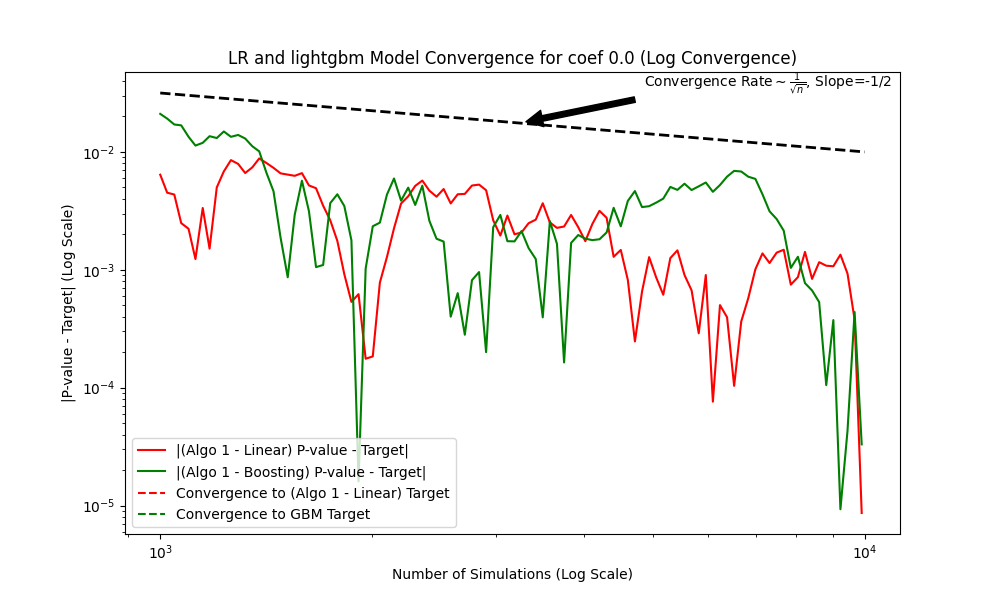
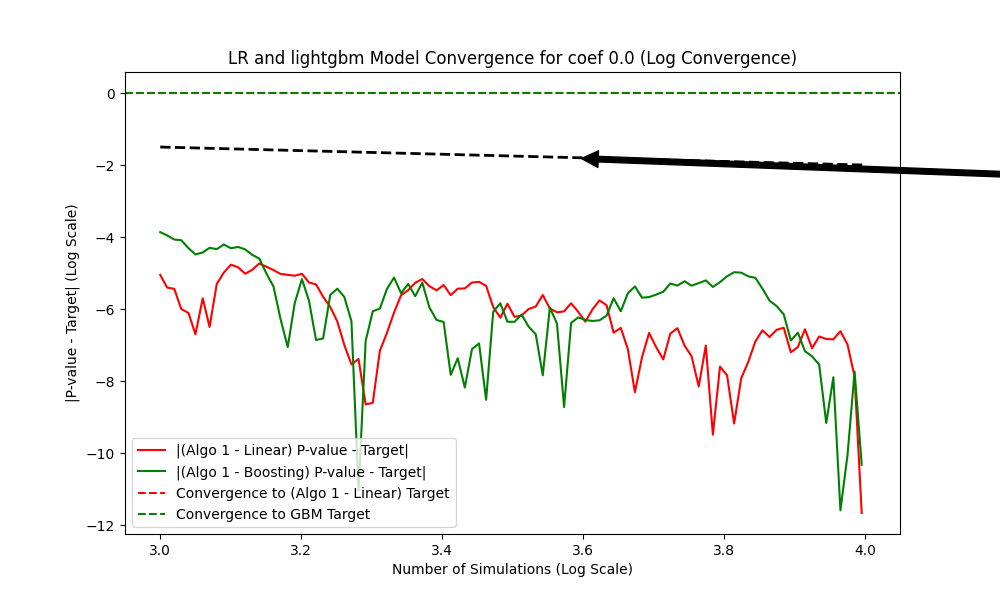
MAINT

diff --git a/Simulation/Visulization/PlotTime.py b/Simulation/Visulization/PlotTime.py
@@ -33,10 +33,10 @@ def plot(range, range_small, path,path_small, title, title_small, multiple = Fal
 
 def main_pic_generator():
 
-    plot(np.arange(0.0,0.42,0.07), np.arange(0,1.5,0.25), "/scratch/jz4721/Post-prediction-Causal-Inference/Simulation/Power/timeL/HPC_power_1000_model1", "/scratch/jz4721/Post-prediction-Causal-Inference/Simulation/Power/timeL/HPC_power_50_model1", "Size1000_Model1", "Size50_Model1")
-    plot(np.arange(0.0,0.96,0.16), np.arange(0.0,4.8,0.8), "/scratch/jz4721/Post-prediction-Causal-Inference/Simulation/Power/timeL/HPC_power_1000_model2", "/scratch/jz4721/Post-prediction-Causal-Inference/Simulation/Power/timeL/HPC_power_50_model2", "Size1000_Model2", "Size50_Model2")
-    plot(np.arange(0.0,0.36,0.06), np.arange(0.0,1.5,0.25), "/scratch/jz4721/Post-prediction-Causal-Inference/Simulation/Power/timeL/HPC_power_1000_model3", "/scratch/jz4721/Post-prediction-Causal-Inference/Simulation/Power/timeL/HPC_power_50_model3", "Size1000_Model3", "Size50_Model3")
-    plot(np.arange(0.0,0.36,0.06), np.arange(0.0,1.5,0.25), "/scratch/jz4721/Post-prediction-Causal-Inference/Simulation/Power/timeL/HPC_power_1000_model4", "/scratch/jz4721/Post-prediction-Causal-Inference/Simulation/Power/timeL/HPC_power_50_model4", "Size1000_Model4", "Size50_Model4")  
+    plot(np.arange(0.0,0.42,0.07), np.arange(0,1.5,0.25), "../Power/timeL/HPC_power_1000_model1", "../Power/timeL/HPC_power_50_model1", "Size1000_Model1", "Size50_Model1")
+    plot(np.arange(0.0,0.96,0.16), np.arange(0.0,4.8,0.8), "../Power/timeL/HPC_power_1000_model2", "../Power/timeL/HPC_power_50_model2", "Size1000_Model2", "Size50_Model2")
+    plot(np.arange(0.0,0.36,0.06), np.arange(0.0,1.5,0.25), "../Power/timeL/HPC_power_1000_model3", "../Power/timeL/HPC_power_50_model3", "Size1000_Model3", "Size50_Model3")
+    plot(np.arange(0.0,0.36,0.06), np.arange(0.0,1.5,0.25), "../Power/timeL/HPC_power_1000_model4", "../Power/timeL/HPC_power_50_model4", "Size1000_Model4", "Size50_Model4")  
     #plot(np.arange(0.2, 0.3, 0.05), np.arange(1.5, 2.5, 0.5), "../Data/Result/HPC_power_1000_Model5", "../Data/Result/HPC_power_50_Model5", "Size1000_Model5", "Size50_Model5", multiple=True)
 
 

diff --git a/Simulation/Visulization/PlotMain.py b/Simulation/Visulization/PlotMain.py
@@ -62,10 +62,10 @@ def plot(range, range_small, path,path_small, title, title_small, multiple = Fal
 
 def main_pic_generator():
 
-    plot(np.arange(0.0,0.42,0.07), np.arange(0,1.5,0.25), "/scratch/jz4721/Post-prediction-Causal-Inference/Simulation/Power/timeL/HPC_power_1000_model1", "/scratch/jz4721/Post-prediction-Causal-Inference/Simulation/Power/timeL/HPC_power_50_model1", "Size1000_Model1", "Size50_Model1")
-    plot(np.arange(0.0,0.96,0.16), np.arange(0.0,4.8,0.8), "/scratch/jz4721/Post-prediction-Causal-Inference/Simulation/Power/timeL/HPC_power_1000_model2", "/scratch/jz4721/Post-prediction-Causal-Inference/Simulation/Power/timeL/HPC_power_50_model2", "Size1000_Model2", "Size50_Model2")
-    plot(np.arange(0.0,0.36,0.06), np.arange(0.0,1.5,0.25), "/scratch/jz4721/Post-prediction-Causal-Inference/Simulation/Power/timeL/HPC_power_1000_model3", "/scratch/jz4721/Post-prediction-Causal-Inference/Simulation/Power/timeL/HPC_power_50_model3", "Size1000_Model3", "Size50_Model3")
-    plot(np.arange(0.0,0.36,0.06), np.arange(0.0,1.5,0.25), "/scratch/jz4721/Post-prediction-Causal-Inference/Simulation/Power/timeL/HPC_power_1000_model4", "/scratch/jz4721/Post-prediction-Causal-Inference/Simulation/Power/timeL/HPC_power_50_model4", "Size1000_Model4", "Size50_Model4") 
+    plot(np.arange(0.0,0.42,0.07), np.arange(0,1.5,0.25), "../Power/timeL/HPC_power_1000_model1", "../Power/timeL/HPC_power_50_model1", "Size1000_Model1", "Size50_Model1")
+    plot(np.arange(0.0,0.96,0.16), np.arange(0.0,4.8,0.8), "../Power/timeL/HPC_power_1000_model2", "../Power/timeL/HPC_power_50_model2", "Size1000_Model2", "Size50_Model2")
+    plot(np.arange(0.0,0.36,0.06), np.arange(0.0,1.5,0.25), "../Power/timeL/HPC_power_1000_model3", "../Power/timeL/HPC_power_50_model3", "Size1000_Model3", "Size50_Model3")
+    plot(np.arange(0.0,0.36,0.06), np.arange(0.0,1.5,0.25), "../Power/timeL/HPC_power_1000_model4", "../Power/timeL/HPC_power_50_model4", "Size1000_Model4", "Size50_Model4") 
     #plot(np.arange(0.2, 0.3, 0.05), np.arange(1.5, 2.5, 0.5), "../Data/Result/HPC_power_1000_Model5", "../Data/Result/HPC_power_50_Model5", "Size1000_Model5", "Size50_Model5", multiple=True)
 
 

diff --git a/Simulation/Visulization/PlotL.py b/Simulation/Visulization/PlotL.py
@@ -60,20 +60,33 @@ def plot_convergence(t_obs_lr, t_sim_lr, t_obs_xgb, t_sim_xgb, title, output_dir
 
         # Plot the absolute difference from the target value
         plt.figure(figsize=(10, 6))
-        plt.plot(log_simulation_steps, np.abs(p_values_log_lr - target_value_lr), label="|(Algo 1 - Linear) P-value - Target|", color="red")
-        plt.plot(log_simulation_steps, np.abs(p_values_log_xgb - target_value_xgb), label="|(Algo 1 - Boosting) P-value - Target|", color="green")
+
+        X = np.log10(log_simulation_steps)
+        y = np.log(np.abs(p_values_log_lr - target_value_lr))
+        y2 = np.log(np.abs(p_values_log_xgb - target_value_xgb))
+
+        # get the slope of this line
+        m = np.polyfit(X, y, 1)[0]
+        print(f"Slope of the linear regression line: {m}")
+
+        m = np.polyfit(X, y2, 1)[0]
+        print(f"Slope of the xgb line: {m}")
+
+        plt.plot(np.log10(log_simulation_steps), np.log(np.abs(p_values_log_lr - target_value_lr)), label="|(Algo 1 - Linear) P-value - Target|", color="red")
+        plt.plot(np.log10(log_simulation_steps), np.log(np.abs(p_values_log_xgb - target_value_xgb)), label="|(Algo 1 - Boosting) P-value - Target|", color="green")
         plt.axhline(0, color='r', linestyle='--', label="Convergence to (Algo 1 - Linear) Target")
         plt.axhline(0, color='green', linestyle='--', label="Convergence to GBM Target")
-        plt.xscale('log')
-        plt.yscale('log')
         plt.xlabel('Number of Simulations (Log Scale)')
         plt.ylabel('|P-value - Target| (Log Scale)')
         plt.title(f"{title} (Log Convergence)")
-        plt.legend()
+        plt.legend() 
 
         # Add a reference line for convergence rate (-1/2 slope)
         x_ref = np.logspace(np.log10(1000), np.log10(n_simulations), num=50)
         y_ref = 1 / np.sqrt(x_ref)
+
+        x_ref = np.log10(x_ref)
+        y_ref = np.log10(y_ref)
         plt.plot(x_ref, y_ref, 'k--', linewidth=2, label='Convergence Rate (slope = -1/2)')
 
         # Annotate the reference line with LaTeX-style math notation

diff --git a/Simulation/Visulization/PlotLtest.py b/Simulation/Visulization/PlotLtest.py
@@ -1,0 +1,13 @@
+import numpy as np
+import pandas as pd
+import matplotlib.pyplot as plt
+   
+# Add a reference line for convergence rate (-1/2 slope)
+x_ref = np.logspace(np.log10(1000), np.log10(10000), num=50)
+y_ref = np.log(1 / np.sqrt(x_ref))
+x_ref = np.log(x_ref)
+print(x_ref)
+print(y_ref)
+plt.plot(x_ref, y_ref, 'k--', linewidth=2, label='Convergence Rate (slope = -1/2)')
+plt.savefig("log" +  ".pdf", format='pdf', bbox_inches='tight')
+exit()
